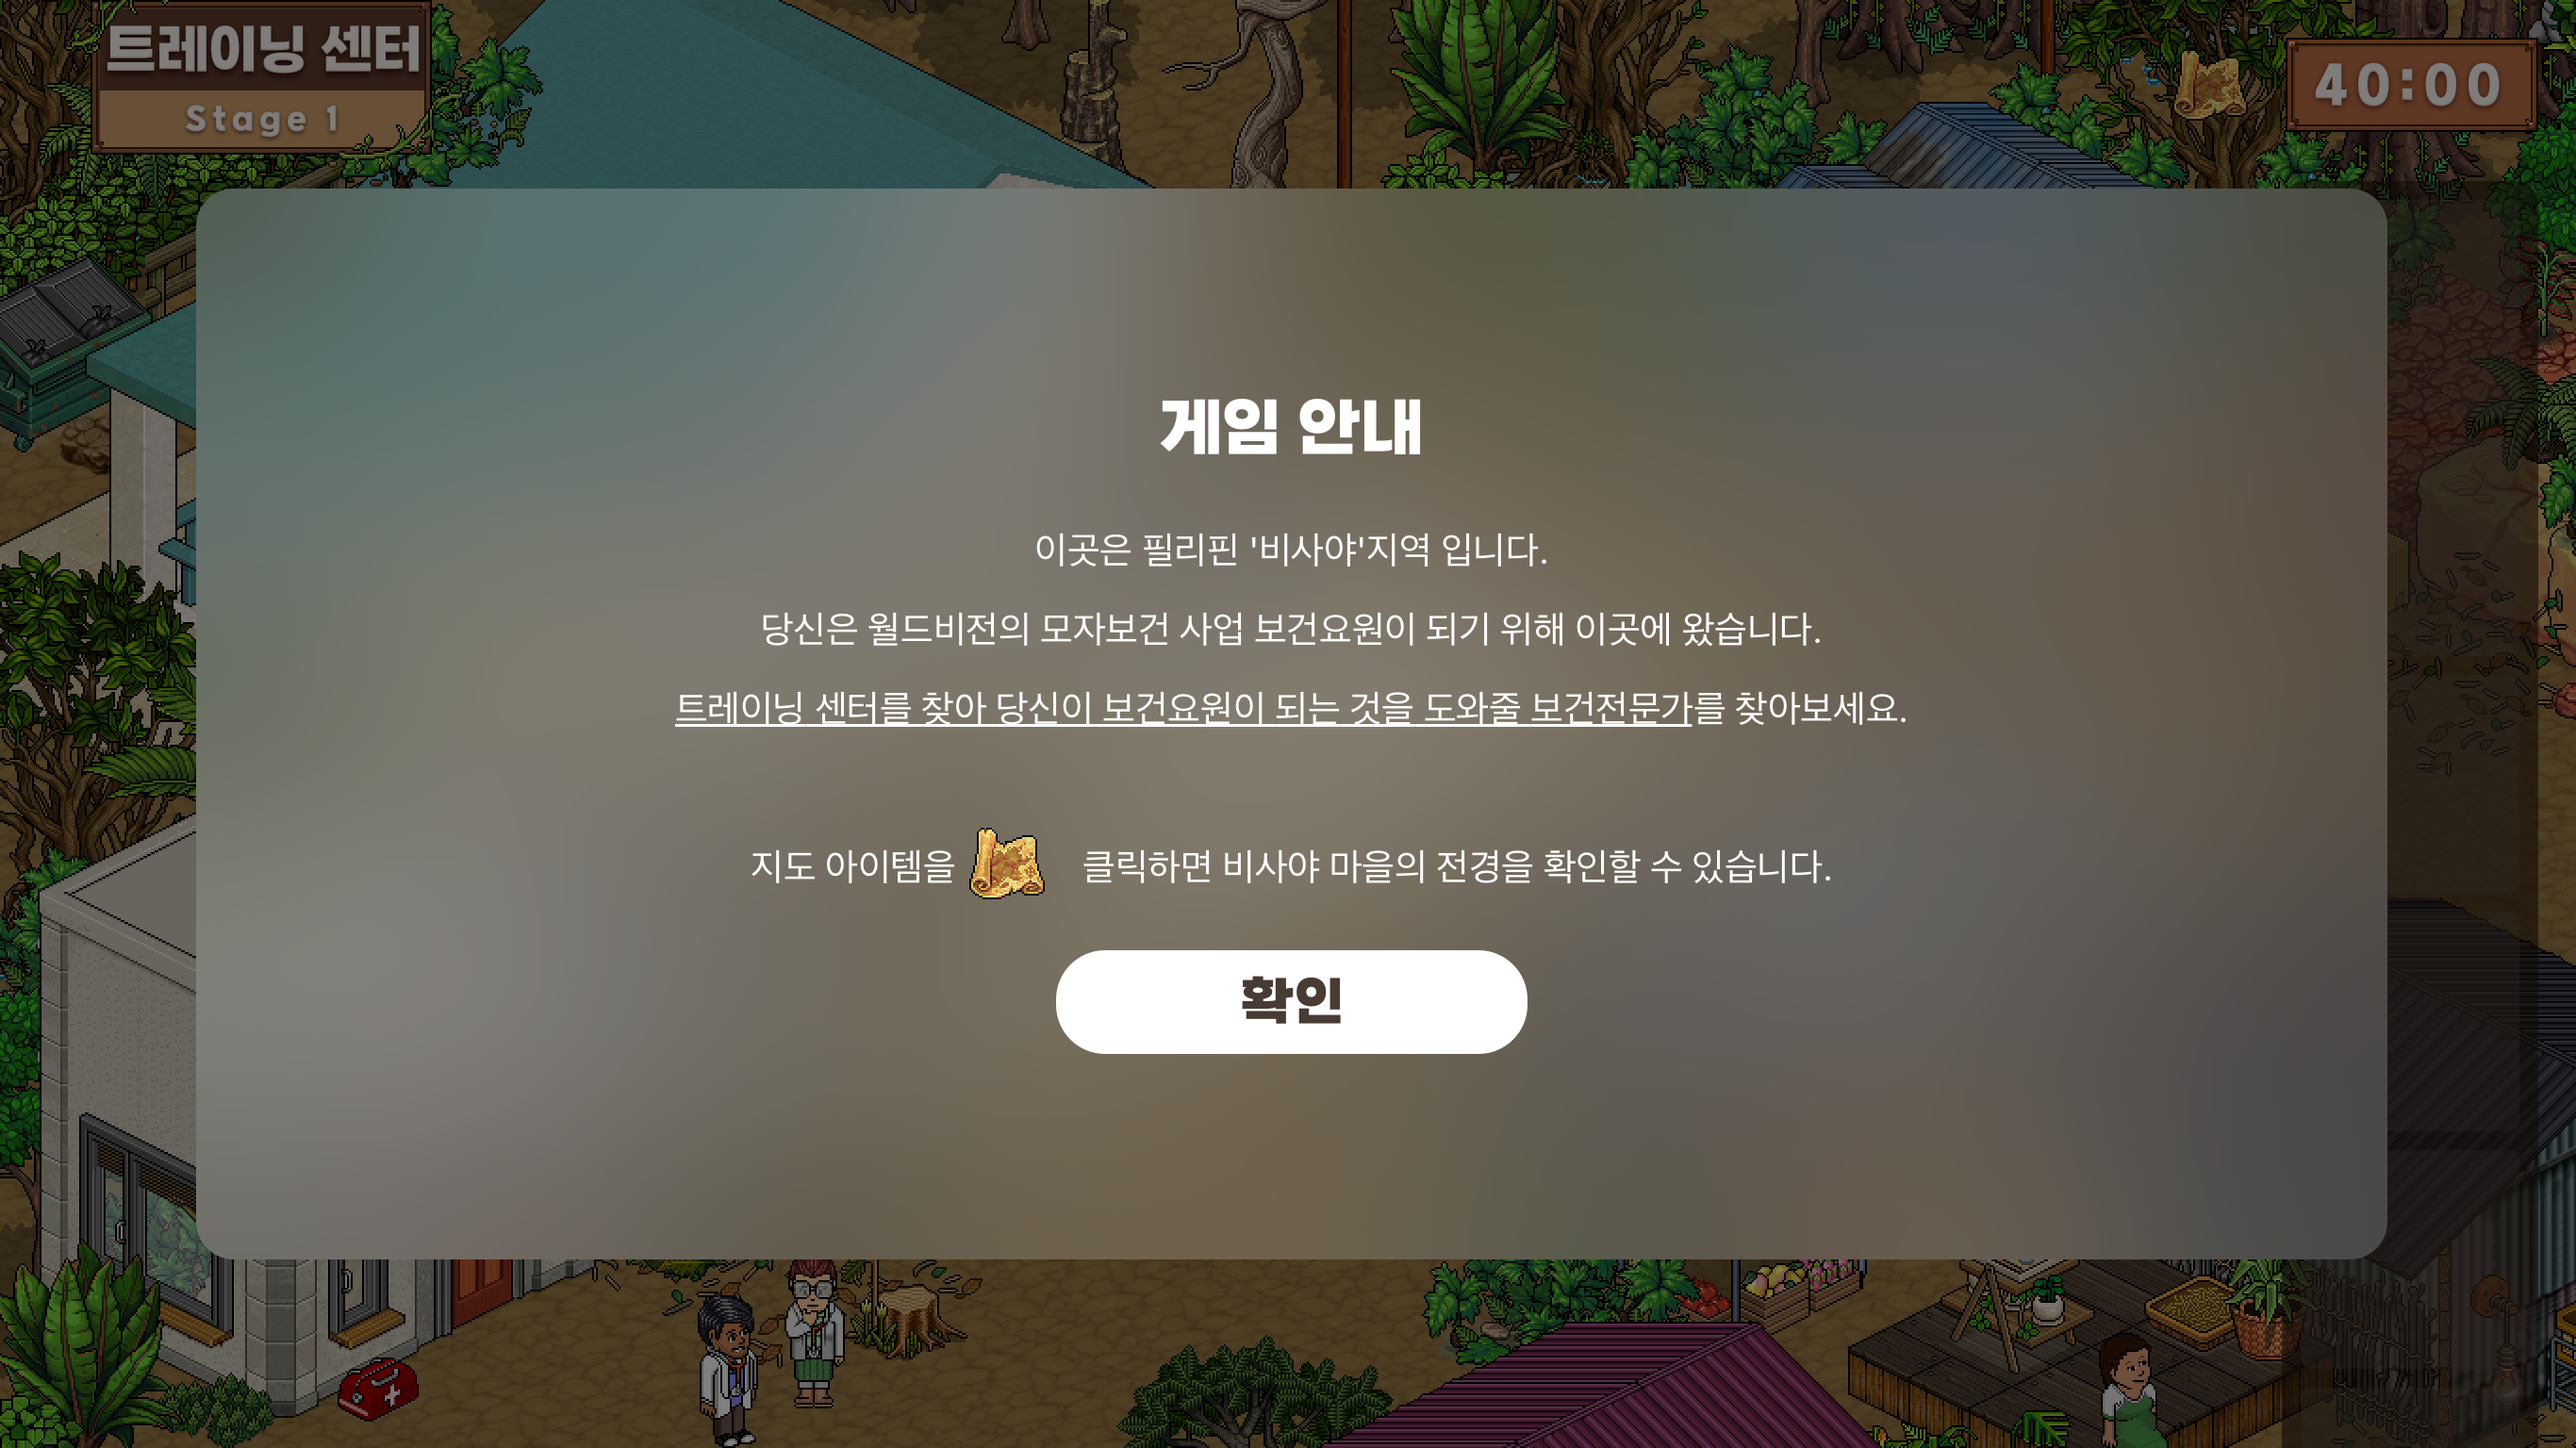
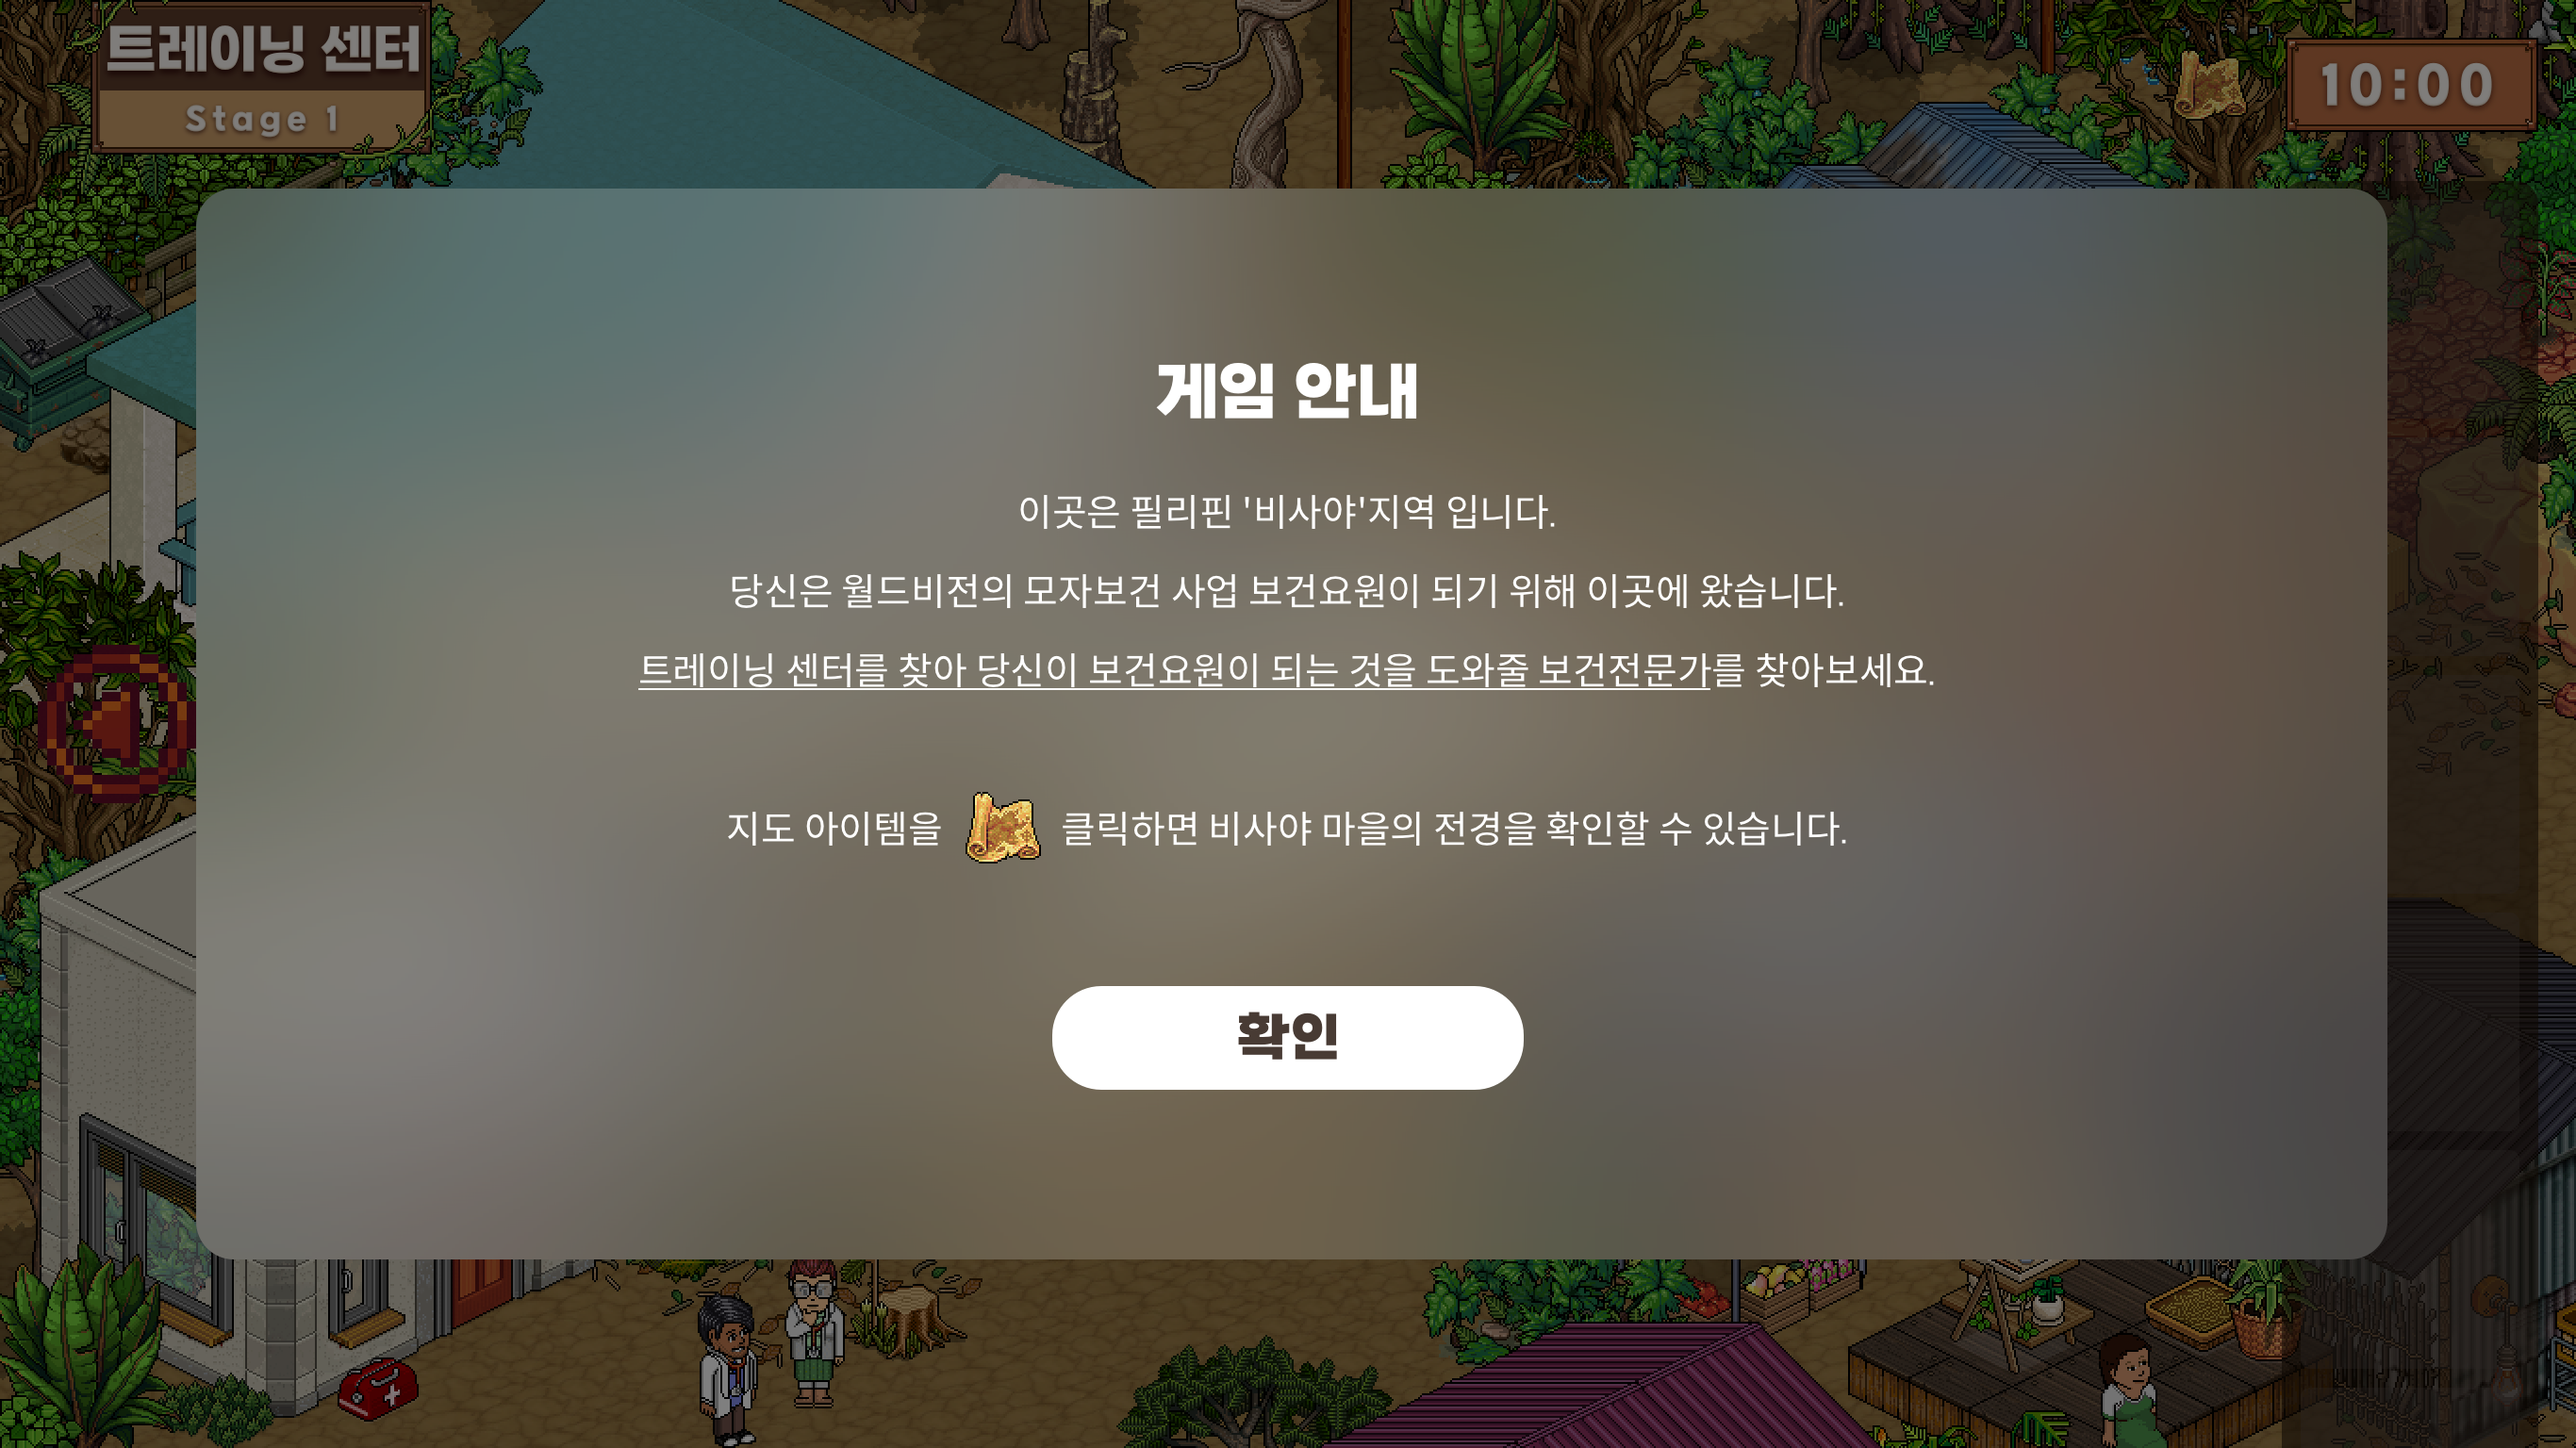
Timer 정책 변경
-총 40분에서 스테이지마다 10분으로 변경

diff --git a/js/module/timer.js b/js/module/timer.js
@@ -1,5 +1,5 @@
-const totalTimeInSeconds = 40 * 60;
-let currentTimeInSeconds = 0;
+const stageTimeInSeconds = 10 * 60;
+let timerInterval;
 
 function formatTime(seconds) {
   const minutes = Math.floor(seconds / 60);
@@ -9,25 +9,23 @@ function formatTime(seconds) {
   return `${formattedMinutes}:${formattedSeconds}`;
 }
 
-function updateTimer() {
-  const timerDisplay = document.getElementById('timer');
-  timerDisplay.textContent = formatTime(currentTimeInSeconds);
-  if (currentTimeInSeconds > 0) {
-    currentTimeInSeconds--;
-    setTimeout(updateTimer, 1000);
-  } else if (currentTimeInSeconds == 0){
+function updateTimer(timerDisplay, remainingTimeInSeconds) {
+  timerDisplay.textContent = formatTime(remainingTimeInSeconds);
+  if (remainingTimeInSeconds > 0) {
+    remainingTimeInSeconds--;
+  } else {
+    clearInterval(timerInterval);
     timerDisplay.classList.add('over');
   }
 }
 
 function startTimer() {
-  currentTimeInSeconds = sessionStorage.getItem('timerValue') || totalTimeInSeconds;
-  updateTimer();
-}
-
-function saveTimer() {
-  sessionStorage.setItem('timerValue', currentTimeInSeconds);
+  const timerDisplay = document.getElementById('timer');
+  let remainingTimeInSeconds = stageTimeInSeconds;
+  timerInterval = setInterval(() => {
+    updateTimer(timerDisplay, remainingTimeInSeconds);
+    remainingTimeInSeconds--;
+  }, 1000);
 }
 
 window.addEventListener('load', startTimer);
-window.addEventListener('beforeunload', saveTimer);
